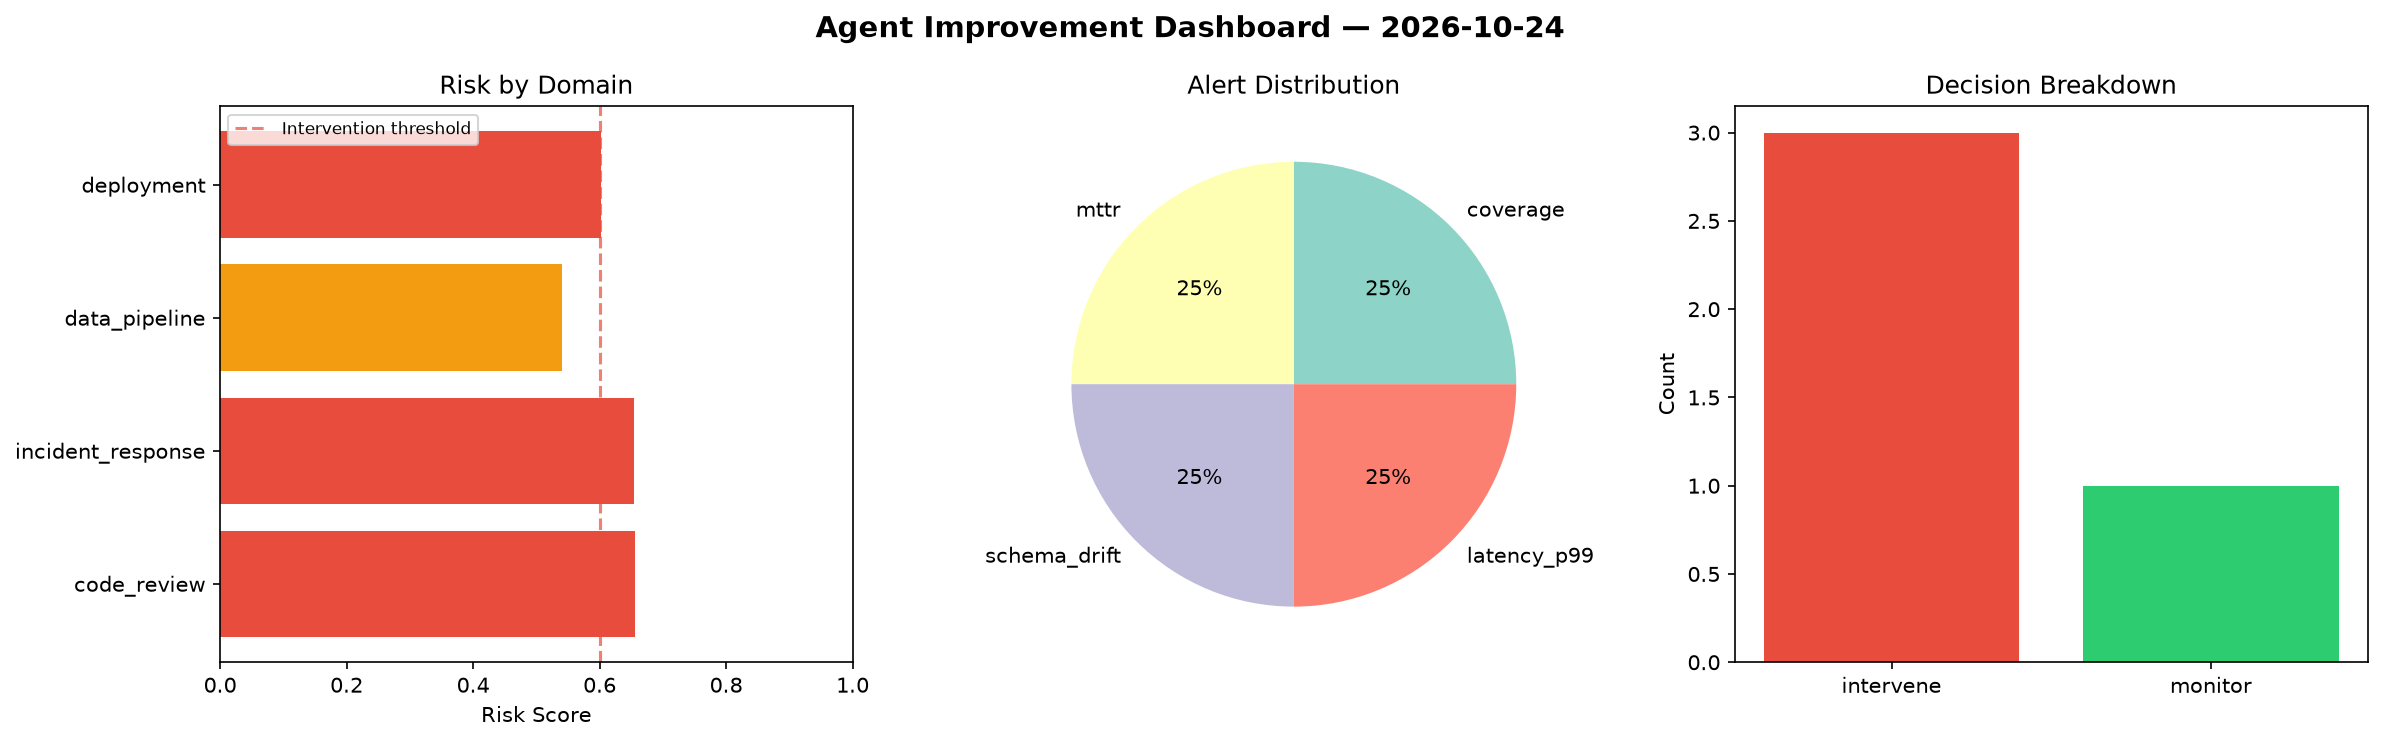
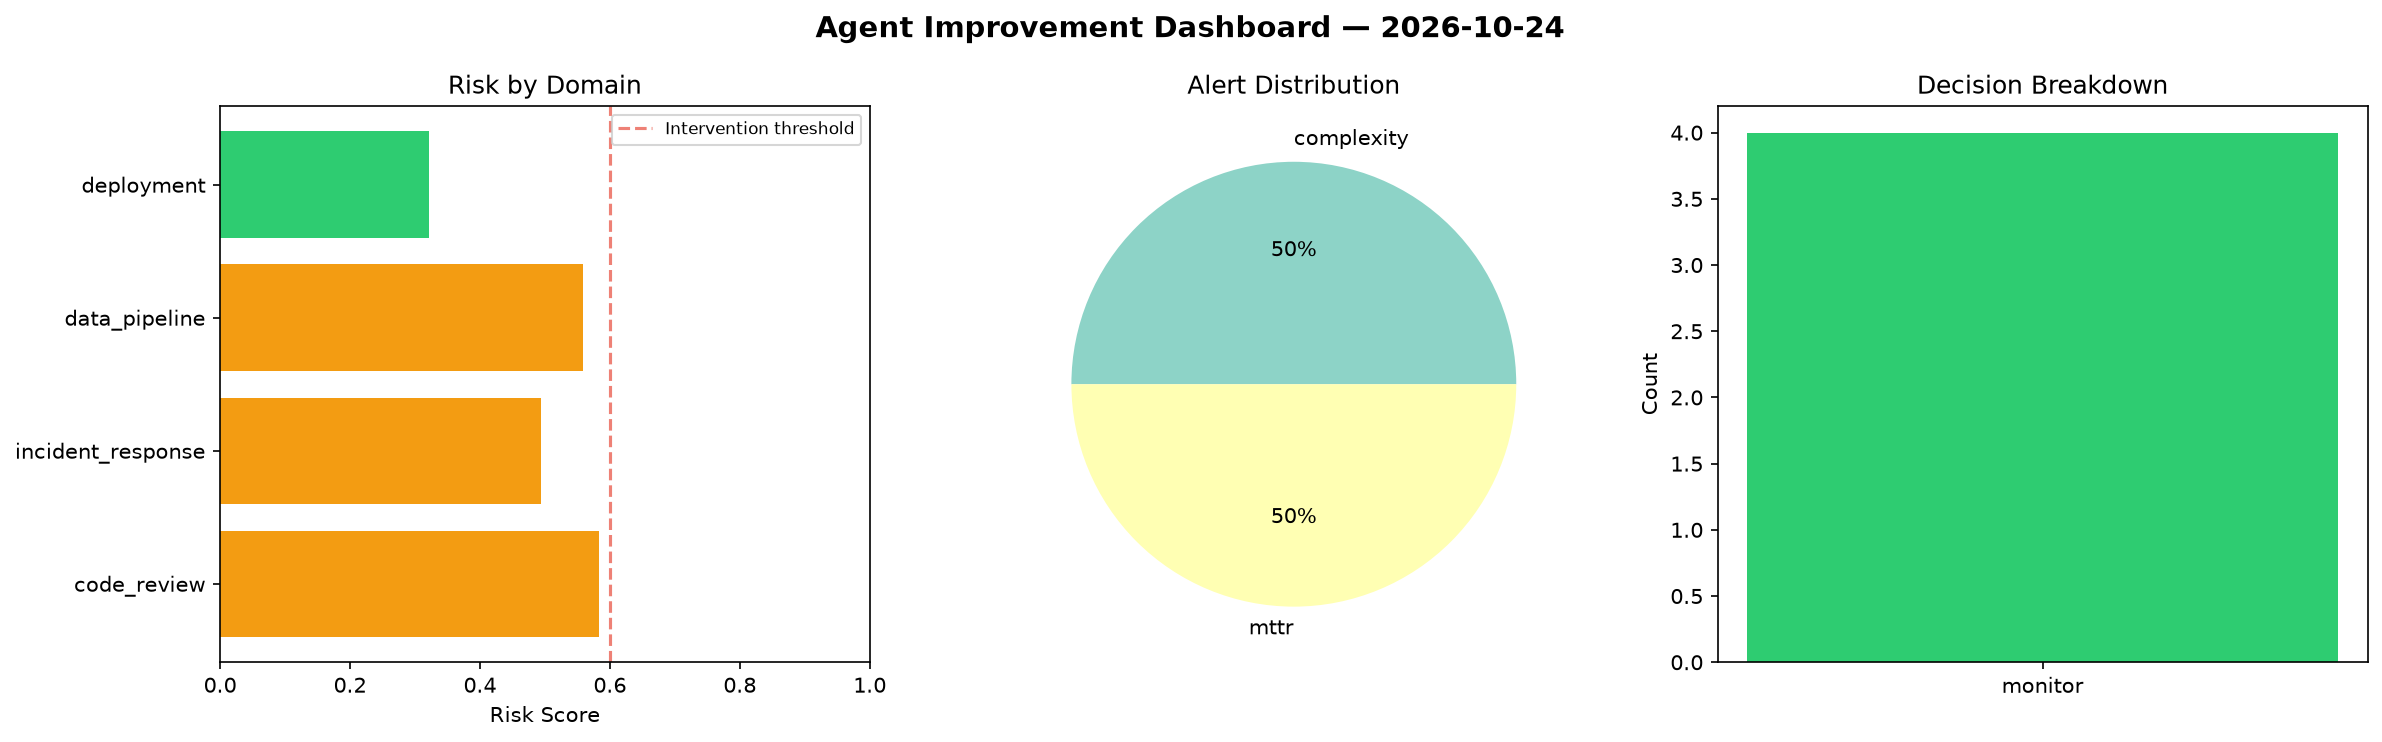
agent-improvement: daily cycle 2026-10-24T17:27

diff --git a/logs/2026-10-24.md b/logs/2026-10-24.md
@@ -1,6 +1,6 @@
 # Agent Improvement Report — 2026-10-24
 
-**Cycle ID:** `611f089e` | **Avg Risk:** 0.6135 | **Interventions:** 3/4
+**Cycle ID:** `2b587a3b` | **Avg Risk:** 0.4895 | **Interventions:** 0/4
 
 ![Dashboard](2026-10-24_dashboard.png)
 
@@ -10,18 +10,18 @@
 
 | Domain | Risk Score | Decision | Alerts |
 |--------|-----------|----------|--------|
-| code_review | 0.6562 | intervene | coverage |
-| incident_response | 0.6547 | intervene | mttr |
-| data_pipeline | 0.5406 | monitor | schema_drift |
-| deployment | 0.6024 | intervene | latency_p99 |
+| code_review | 0.5837 | monitor | complexity |
+| incident_response | 0.4946 | monitor | mttr |
+| data_pipeline | 0.5589 | monitor | none |
+| deployment | 0.3209 | monitor | none |
 
 ## Delta vs Yesterday
 
 | Domain | Today | Yesterday | Change |
 |--------|-------|-----------|--------|
-| code_review | 0.6562 | 0.4635 | 📈 41.6% |
-| incident_response | 0.6547 | 0.4673 | 📈 40.1% |
-| data_pipeline | 0.5406 | 0.7626 | 📉 -29.1% |
-| deployment | 0.6024 | 0.7139 | 📉 -15.6% |
+| code_review | 0.5837 | 0.4635 | 📈 25.9% |
+| incident_response | 0.4946 | 0.4673 | 📈 5.8% |
+| data_pipeline | 0.5589 | 0.7626 | 📉 -26.7% |
+| deployment | 0.3209 | 0.7139 | 📉 -55.0% |
 
 **Refinement:** `{'adjustment': 'maintain', 'trend': 'improving', 'window': 4}`
